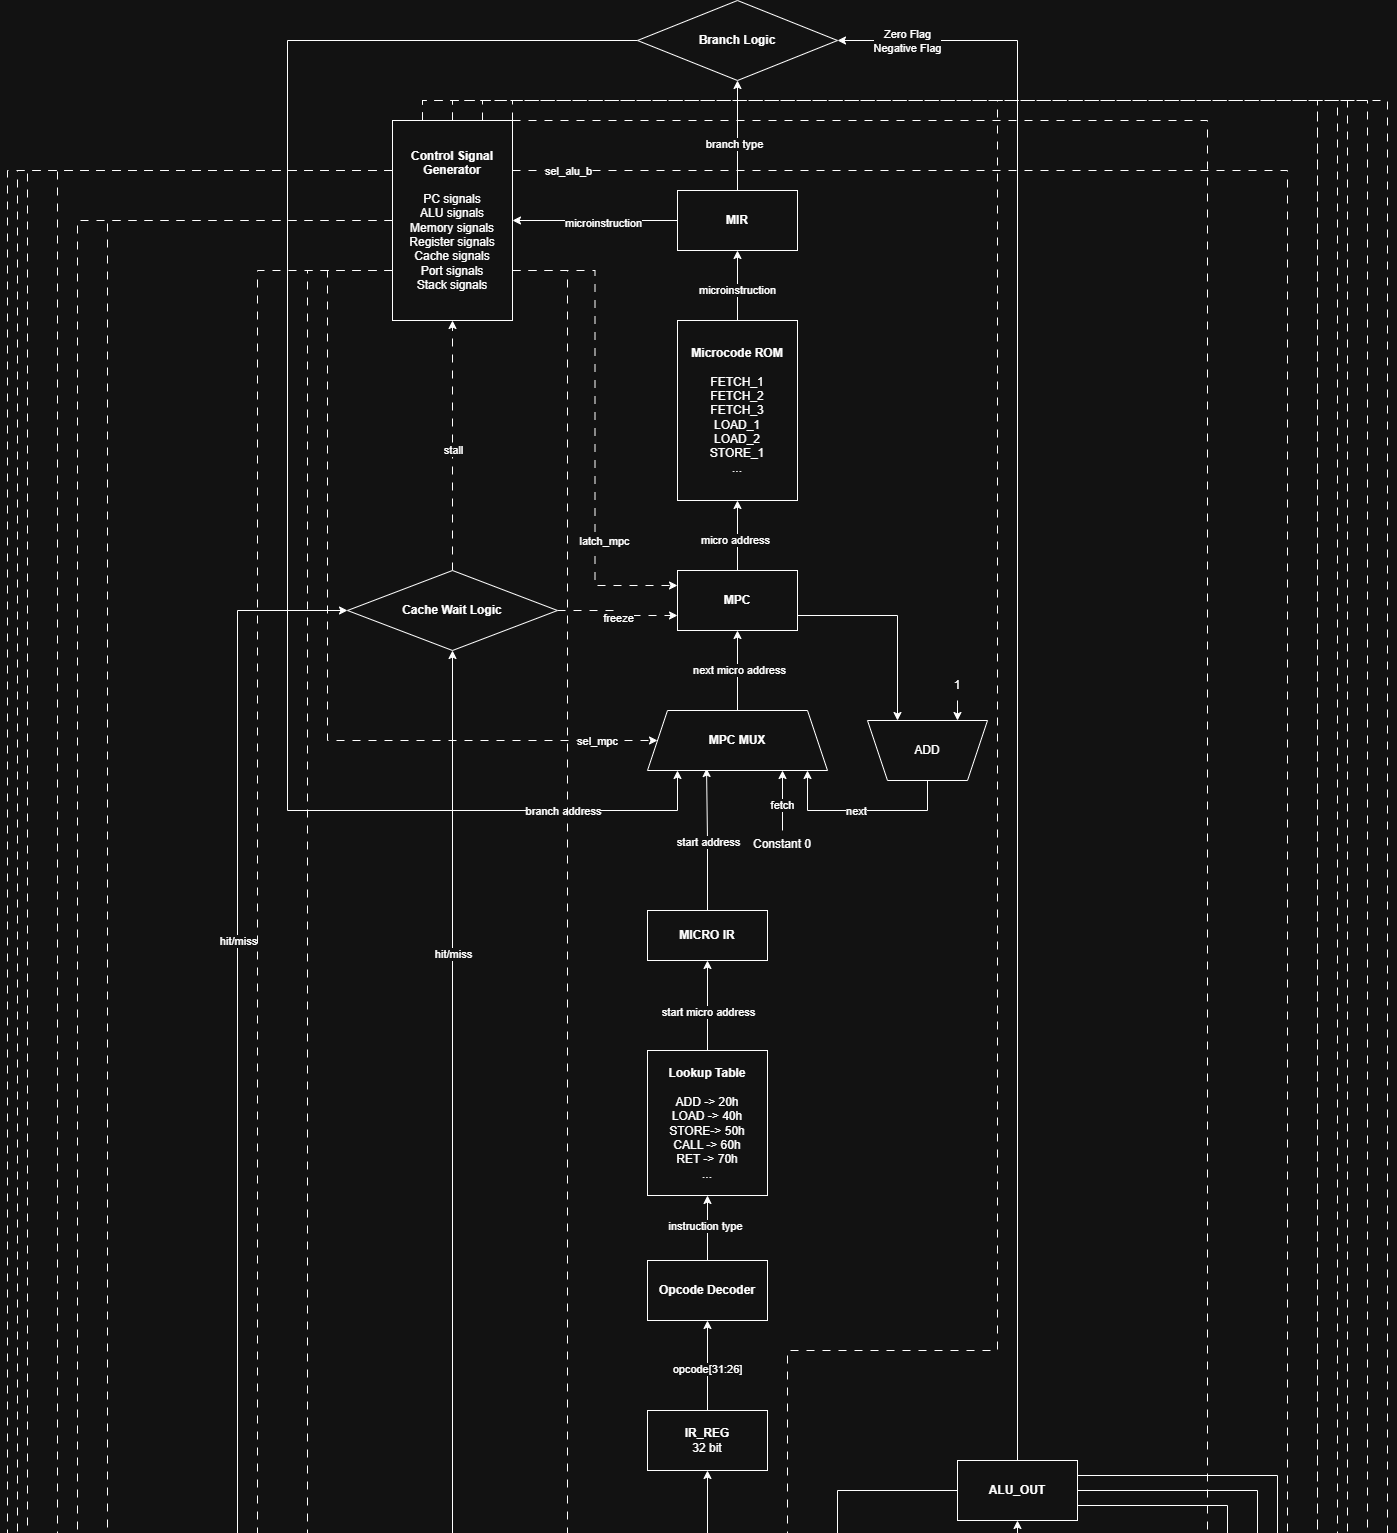
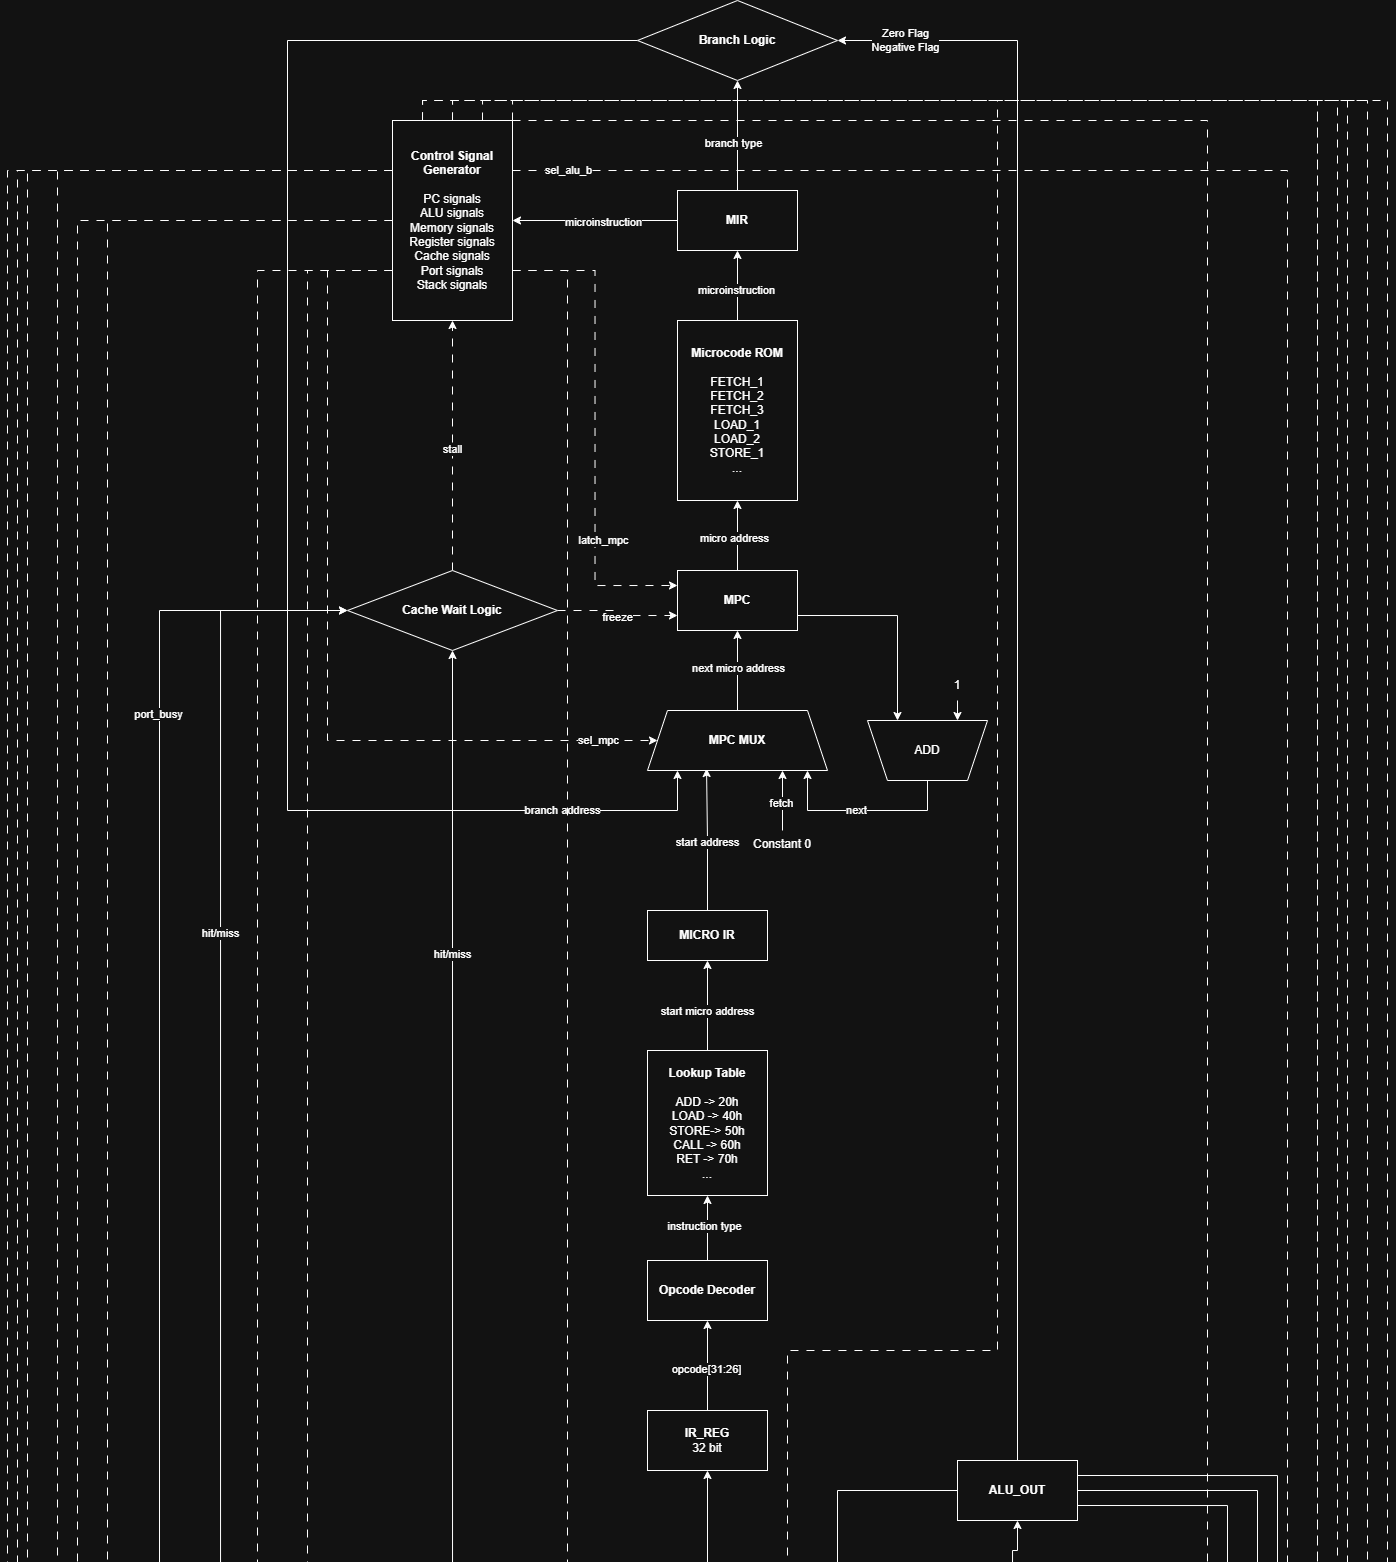
docs: исправить README и обновить диаграммы

diff --git a/lab4-task.md b/lab4-task.md
@@ -77,6 +77,8 @@
 
 ## Структура отчёта
 
+Отчёт оформляется в файле `README.md` в корне репозитория.
+
 В шапке необходимо указать:
 
 - ФИО, группу;
@@ -366,7 +368,10 @@
 
 ### Архитектура организации памяти
 
-Тип памяти -- однопортовая.
+Общие требования:
+
+- Тип памяти -- однопортовая.
+- Адресация -- байтовая.
 
 - `neum` -- фон Неймановская архитектура.
 - `harv` -- Гарвардская архитектура:
@@ -488,6 +493,38 @@
     - Должны быть реализованы механизмы обнаружения и разрешения зависимостей по данным.
     - Необходимо показать влияние суперскалярности на производительность написанных программ.
     - В журнале процессора должно быть видно, какие инструкции выполняются параллельно.
+
+**Особенности реализации варианта (`acc`/`stack`) + `superscalar`:**
+
+В `acc`/`stack` архитектурах каждая инструкция читает или пишет один и тот же регистр, поэтому классический суперскаляр невозможен. Альтернатива -- паттерн **теневого регистра (`AC_SHADOW`)**: откладывать `store` вместо немедленного выполнения, что даёт три эффекта:
+
+- **deferred store** -- вместо записи в память `ACC` и `AC_SHADOW` меняются местами.
+- **dead load elimination** -- если значение уже в `ACC`, `load` пропускается.
+- **parallel flush** -- когда откладывать некуда, оба регистра сбрасываются в память одновременно (суперскалярный момент).
+
+Обозначения `acc / shadow`: `set` -- после `load`; `swap` -- отложенный `store` (`ACC` <-> `AC_SHADOW`); `flush` -- запись одного регистра в память, другой не затрагивается.
+
+Пример для аккумуляторной архитектуры:
+
+```text
+| high level | regular code | superscalar              | acc / shadow  |                     
++ ---------- + ------------ + ------------------------ + ------------- +
+| inc a      | load a       | load a                   | set:   a / _  |                   
+|            | add one      | add one                  |               |        
+|            | store a      |                          | swap:  _ / a  |                    
+| inc b      | load b       | load b                   | set:   b / a  |                   
+|            | add one      | add one                  |               |        
+|            | store b      |                  *       | swap:  a / b  |                    
+| inc a      | load a       |                  |       |               |         
+|            | add one      | add one          |       |               |        
+|            | store a      |                  |   *   | swap:  b / a  |                    
+| inc c      | load c       | store b          v   |   | flush: _ / a  |                    
+|            |              | load c               |   | set:   c / a  |                   
+|            | add one      |                      |   |               |        
+|            | store c      |                  *   |   |               |        
+|            |              | flush: store a   |   V   | flush: c / _  |
+|            |              |        store c   v       | flush: _ / _  |
+```
 
 ## Оценка
 